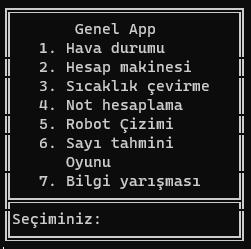
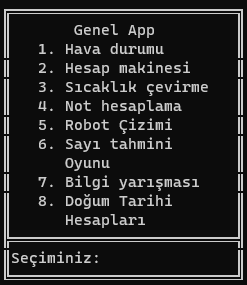
8. program tamamlandı

Changed region(s): [[0.0, 0.0281, 0.9919, 0.9839], [0.1417, 0.1406, 0.2267, 0.5904], [0.1417, 0.6185, 0.2267, 0.759]]

diff --git a/yedekleme/deneme.py b/yedekleme/deneme.py
@@ -34,6 +34,17 @@ def setZodiacSign():
     
     return signs
 """
+def set_zodiac_sign_3(): # son liste(çalışıyor)
+    signs = [
+        {"Koc" : ("Mart", 21)}, {"Boğa" : ("Nisan", 21)}, {"İkizler" : ("Mayıs", 21)},
+        {"Yengeç" : ("Haziran", 22)}, {"Aslan" : ("Temmuz", 23)}, {"Başak" : ("Ağustos", 23)},
+        {"Terazi" : ("Eylül", 23)}, {"Akrep" : ("Ekim", 24)}, {"Yay" : ("Kasım", 23)}, 
+        {"Oğlak" : ("Aralık", 22)}, {"Kova" : ("Ocak", 21)}, {"Balık" : ("Şubat", 19)}
+    ]
+    
+    return signs
+
+"""
 #---------------- bu dictionary liste içersinde yazılacak
 def set_zodiac_sign_2(): 
     signs = {
@@ -52,14 +63,43 @@ def set_zodiac_sign_2():
             }
     
     return signs
+"""
 
 # --------------- burada kaldım ---------------
-# --------------- dictionary yerine klasor içindeki screenshot ile devam et...
 def find_zodiac(dogumAy, dogumGun):
-    signs = set_zodiac_sign_2()
+    signs = set_zodiac_sign_3() # burc listesini alıyor
+
     #dogumAy, dogumGun #girilen doğum ayı, ve günü
     #onceki_ay = ""
-
+    print(signs[3]) # {'Koc': ('Mart', 21)}
+    key = 0
+    
+    for i in signs:
+        #print(signs[key] ," sırası")
+        # index numarasını tutyor
+        # print(i.keys()) # dict_keys(['İkizler'])
+        # print(i) # dizideki değişkenleri veriyor {'Koc': ('Mart', 21)}
+        for j in i:
+            """
+            print(" ", j, end=", ") #koc
+            print(" ", i[j], end=", ") #('Mart', 21)
+            print(" ", i[j][0]) # Mart 
+            print(" ", i[j][1]) # 21 
+            """
+            if i[j][0] == dogumAy: # girilen ay bu tupledaki ay ise
+                if dogumGun >= i[j][1]: # ve girilen gün burcun başlangıç gününden fazlaysa
+                    print("Burcunuz:", j) # burcunuzu bulduk
+                    break
+                elif dogumGun < i[j][1]:
+                    for a in signs[key-1]: # burucunu veriyor
+                        print("Burcunuz:", a)
+                    #print("c:", dogumGun, i[j][0]) # 18 Nisan
+                    #print("Burcunuz:", signs[key-1][j][0], "key :", key-1, )
+                    #print(signs[key-1][j])
+                    break
+        key += 1 # index numarasını tutuyor.
+             
+'''
     for i in signs:
         splitted_data = signs[i].split() #['21','Mart']
         burc_baslangic_gunleri = int(splitted_data[0]) #['21']
@@ -79,9 +119,9 @@ def find_zodiac(dogumAy, dogumGun):
 
 
         #print(splitted_data)
-
+'''
     
-
+"""
 def findZodiacSign(dogumA, dogumG):
     signs = setZodiacSign()
     #print(dogumA, dogumG)
@@ -114,8 +154,9 @@ def findZodiacSign(dogumA, dogumG):
         
     print(signs["Koç"][0])
     
+"""
 
-dogumAyi = "Nisan"
-dogumGun = 21
+dogumAyi = "Mart"
+dogumGun = 15
 
 find_zodiac(dogumAyi, dogumGun)

diff --git a/dogumhesaplari/gunlerlistesi1.py b/dogumhesaplari/gunlerlistesi1.py
@@ -16,20 +16,12 @@ def setMonthsTurkish():
     return aylar
 
 
-def setZodiacSign():
-    signs = {
-        "Koç" : ["21 Mart", "20 Nisan"],
-        "Boğa" : ["21 Nisan", "20 Mayıs"],
-        "İkizler" : ["21 Mayıs", "21 Haziran"],
-        "Yengeç" : ["22 Haziran", "22 Temmuz"],
-        "Aslan" : ["23 Temmuz", "22 Ağustos"],
-        "Başak" : ["23 Ağustos", "22 Eylül"],
-        "Terazi" : ["23 Eylül", "23 Ekim"],
-        "Akrep" : ["24 Ekim", "22 Kasım"],
-        "Yay" : ["23 Kasım", "21 Aralık"],
-        "Oğlak" : ["22 Aralık", "20 Ocak"],
-        "Kova" : ["21 Ocak", "18 Şubat"],
-        "Balık" : ["19 Şubat", "20 Mart"],
-            }
+def set_zodiac_sign(): # son liste(çalışıyor)
+    signs = [
+        {"Koc" : ("Mart", 21)}, {"Boğa" : ("Nisan", 21)}, {"İkizler" : ("Mayıs", 21)},
+        {"Yengeç" : ("Haziran", 22)}, {"Aslan" : ("Temmuz", 23)}, {"Başak" : ("Ağustos", 23)},
+        {"Terazi" : ("Eylül", 23)}, {"Akrep" : ("Ekim", 24)}, {"Yay" : ("Kasım", 23)}, 
+        {"Oğlak" : ("Aralık", 22)}, {"Kova" : ("Ocak", 21)}, {"Balık" : ("Şubat", 19)}
+    ]
     
     return signs

diff --git a/bilgiyarismasi/bilyaris.py b/bilgiyarismasi/bilyaris.py
@@ -135,5 +135,4 @@ def soruSec(): # soru secim listesine 5 tane raslantısal soru seçiyor.
 
 #soruSor(soruSecimListesi)
 
-input()
 

diff --git a/README.md b/README.md
@@ -24,5 +24,8 @@
 <h5><i>Bilgi Yarışması</i></h5>
 <img src="./tanitim/bilgiYarismasi.png" width='200' />
 <p> 5 soruluk bilgi yarışması. Random kütüphanesi ile soru havuzundan rastgele 5 tane soru seçer. Cevaplara göre skorunuzu yazdırır.</p>
+<h5><i>Doğum Tarihi Hesaplamaları</i></h5>
+<img src="./tanitim/dogumBilgileri.png" width='200' />
+<p>Herhangi bir doğum tarihinden, kişinin yaşını, hangi günde doğduğunu ve burcunu bildirir. </p>
 
 
